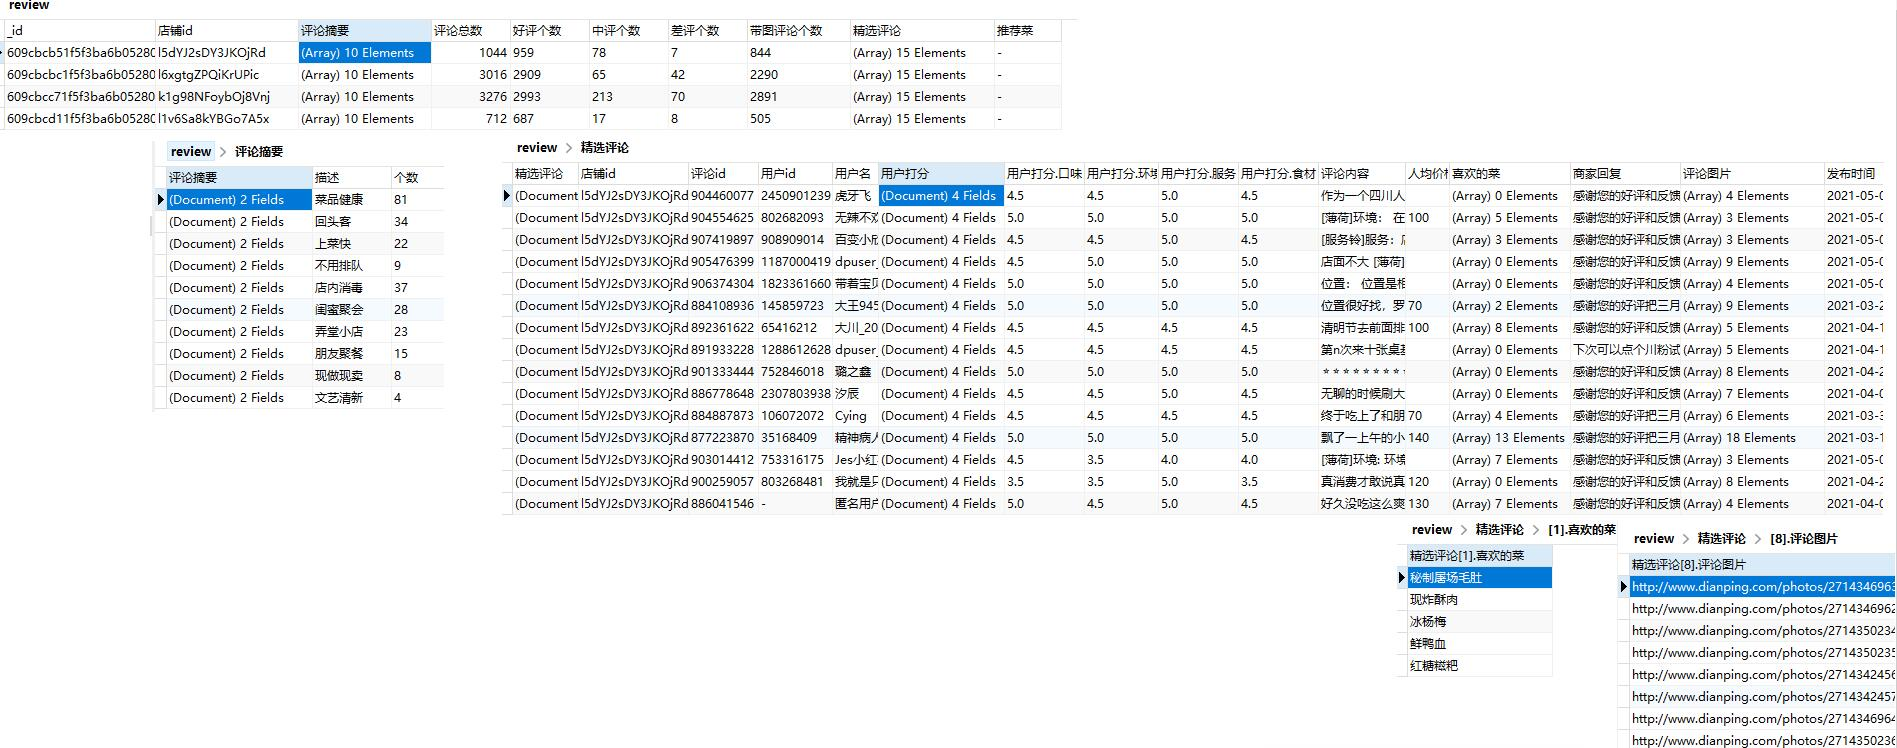
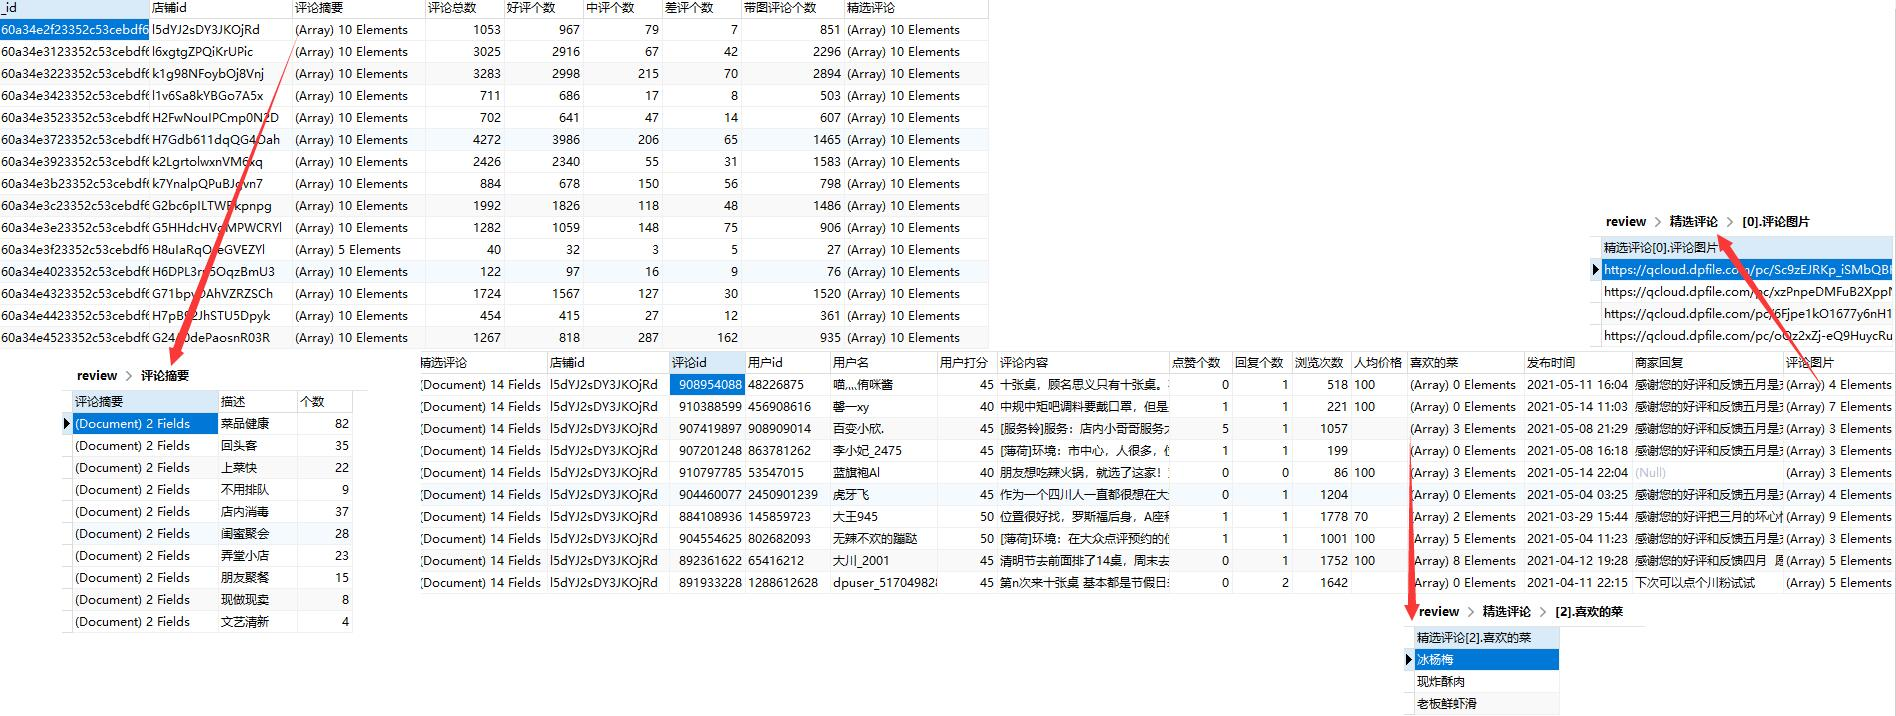
README.md

Changed region(s): [[0.0, 0.0, 1.0, 1.0]]

diff --git a/README.md b/README.md
@@ -152,13 +152,7 @@
 同时由于数据结构化明显，不是很方便进行csv存储，以后的支持主流一定是mongo。
 
 ### 商家搜索结果展示：
-![image](./imgs/search.jpg)
-
-### 商家详情页展示：
-![image](./imgs/detail.jpg)
-
-![image](./imgs/detail_json.jpg)
-
+![image](./imgs/show_info.jpg)
 
 ### 商家评论页展示：
 ![image](./imgs/show_review.jpg)
